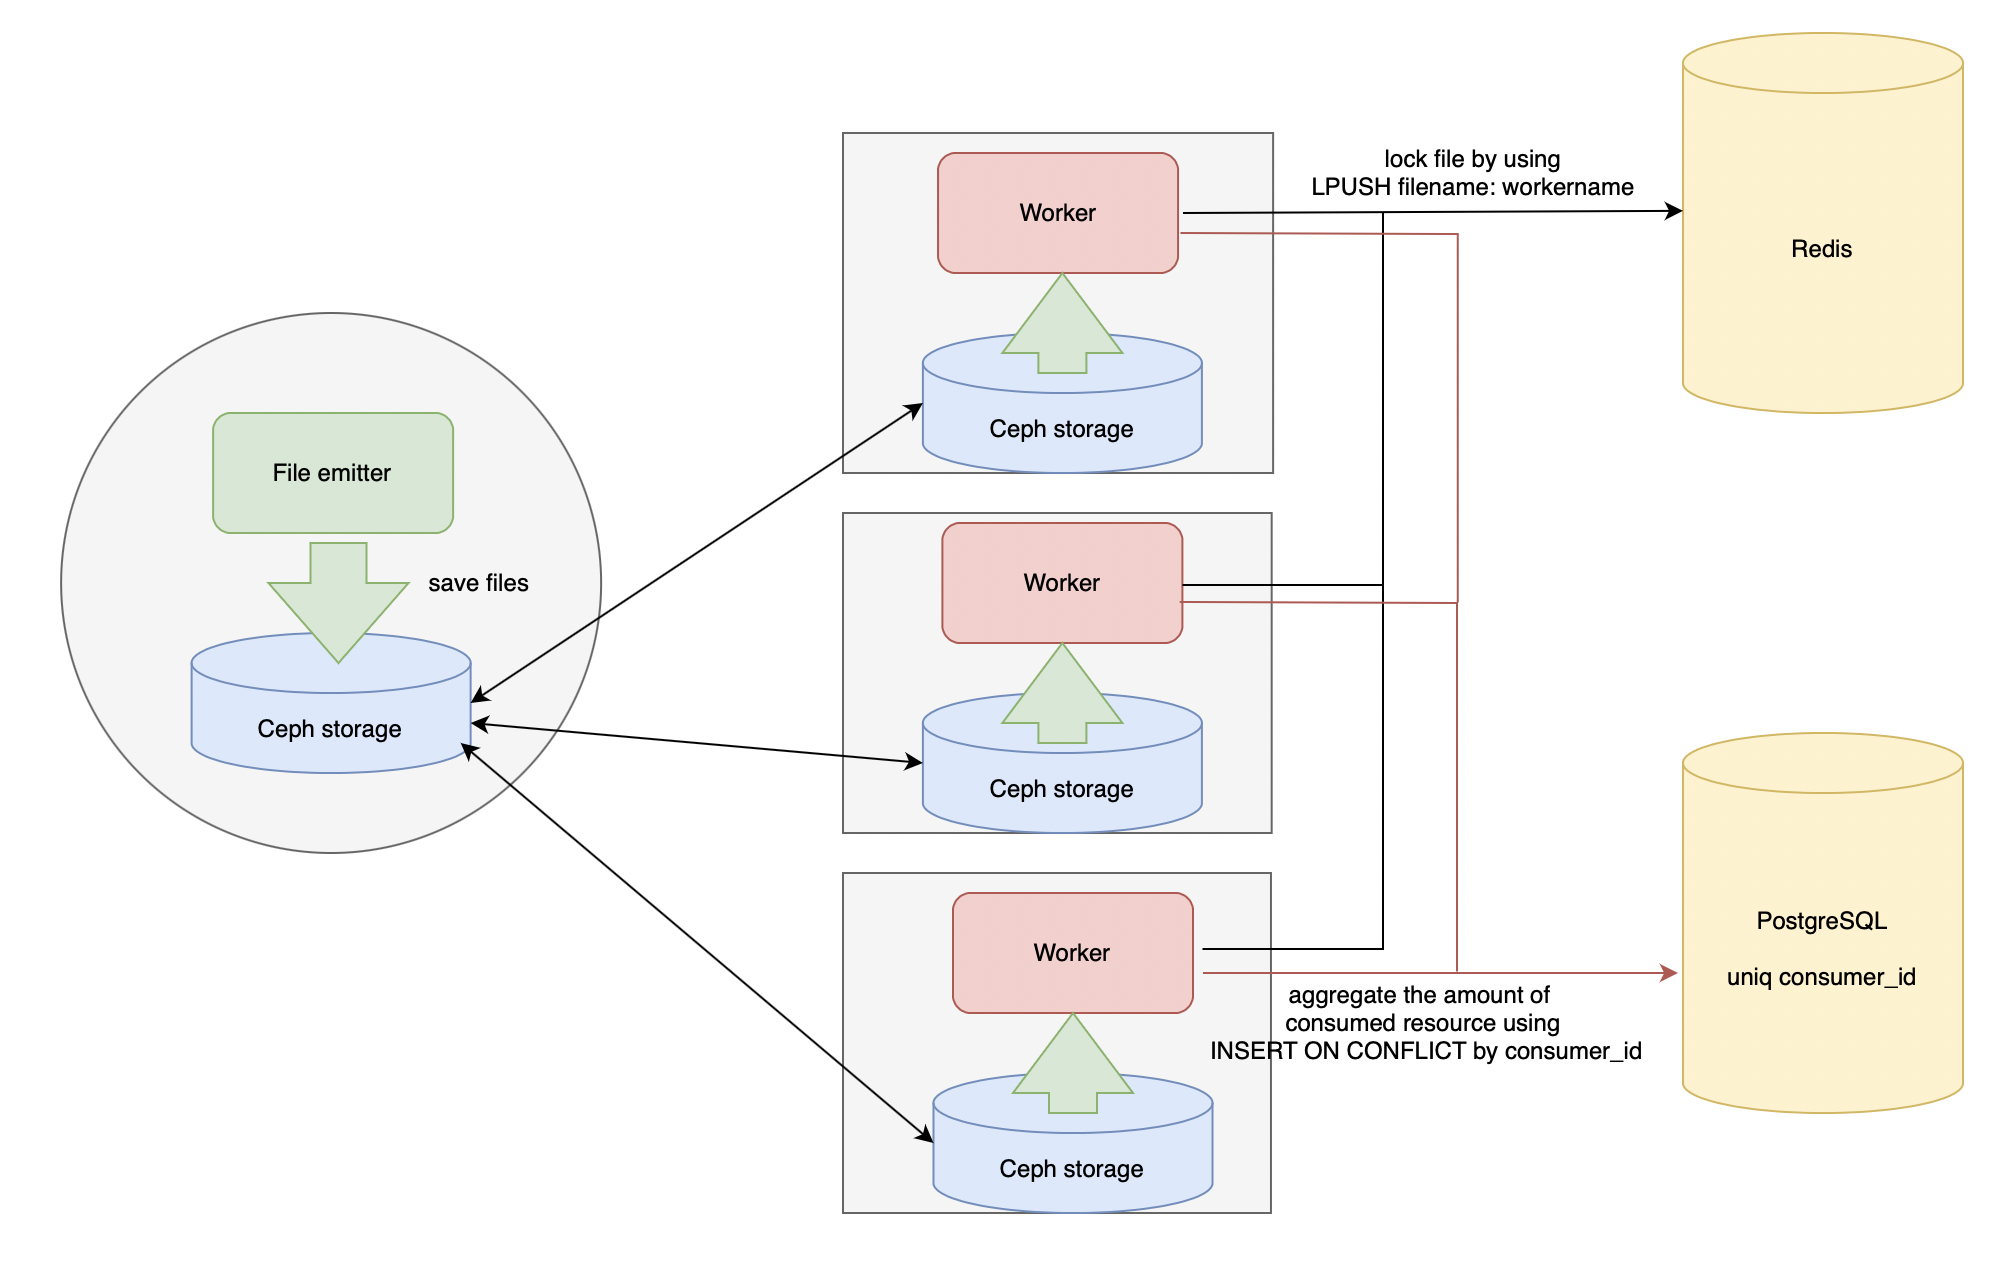
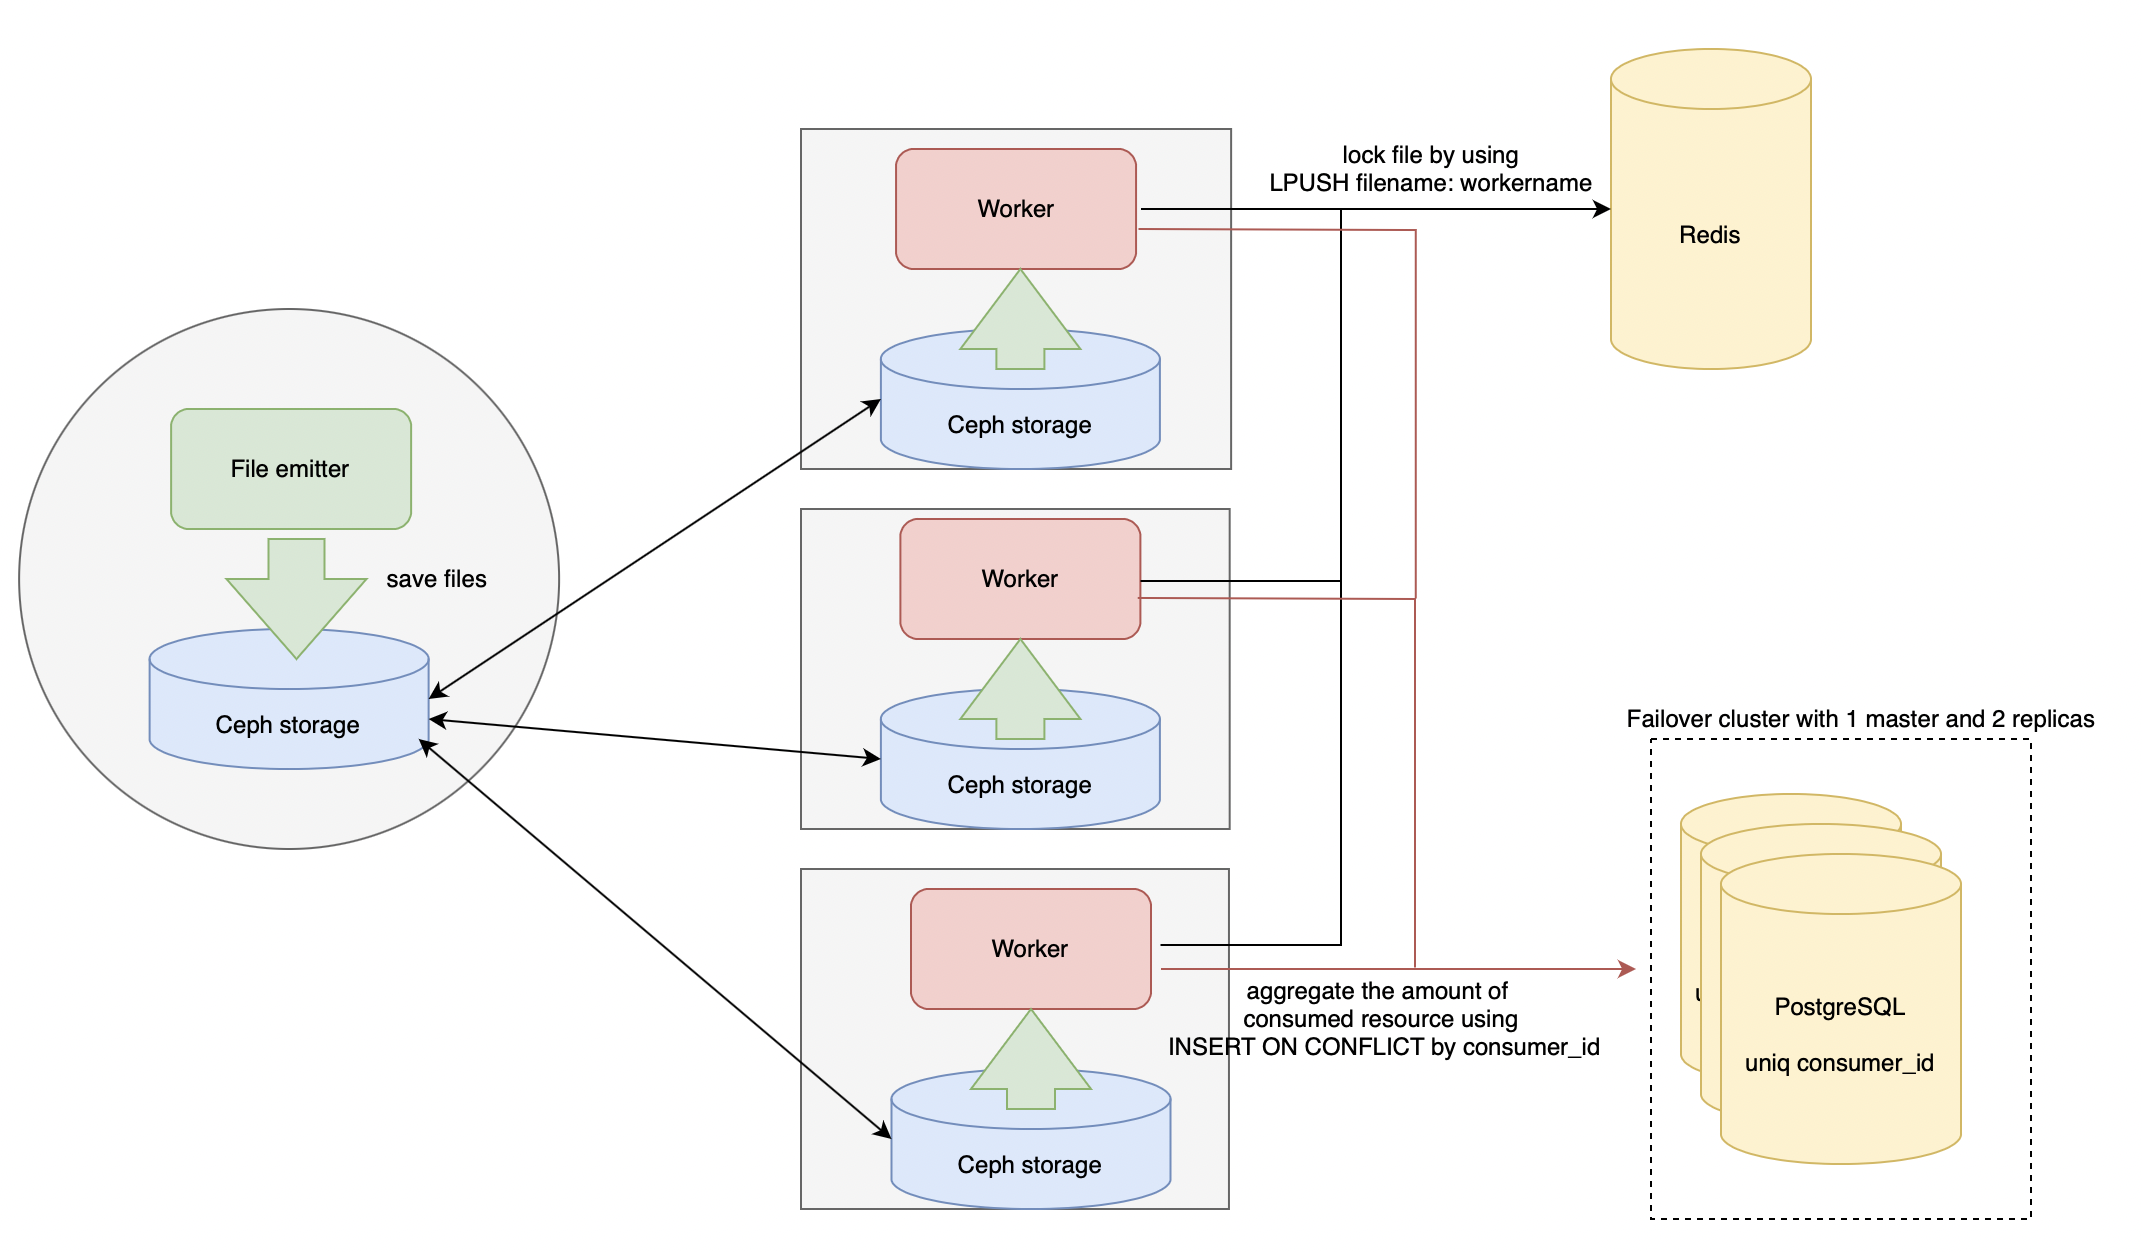
- ref #1. Add worker pool and Ceph storage approach description

diff --git a/design/Design.md b/design/Design.md
@@ -17,7 +17,8 @@ The gathering of the data will be done by periodically scanning the file directo
 
 The logic of working with every state is:
 - scan the whole directory in case of missing data about last scan.
-- If the data about last scanning exist, than finding the new files to scan by diffing the list of the files from the directory and list of the files from storage. 
+- If the data about last scanning exist, than finding the new files to scan by diffing the list of the files from the directory and list of the files from storage.
+- In case of having line number in the state data near the file name, it means that the consumer unexpectedly failed and we need to continue scanning from the next line.
 
 **Potential bottlenecks**
 
@@ -32,8 +33,32 @@ The durability of the service will be handled by some restart policy for example
 Observability of the service will be handled by Prometheus with Alert manager to send alerts to Slack in case of any incident.
 Grafana will be used to display statistics about failures that could be used to calculate potential SLO / SLI.
 
+**Trade-ins**
+The solution is very simple and could be a good fit for an MVP or in case you don't need a horizontal scaling and very high availability. 
+If you need to manage scalability or the network becomes bottlenecks plese look into the next options.
+
 ## Worker pool with Ceph storage
+In case of necessity to improve scalability we could extend the previous scheme for using multiple workers. Not to handle multiple pieces of disks and keep the simplicity of using the shared one  we could pick some distributed storage like Ceph.
+
+But while introducing scalability we face with the problem of deduplicating data. For example if 2+ workers start processing the same file, the amount of incorrect aggregated data about consumed resource will dramatically increased.  
+It could be fixed by handling the state like we explained in the previous option: in case of having line number in the state data near the file name, it means that the consumer unexpectedly failed and we need to continue scanning from the next line.
 
 <img src="./img/ceph-worker-pool.png" width="950">
+
+**Durability**
+
+The durability of the service will be handled by some restart policy for example by container restart policy of Kubernetes with exponential backoff.
+
+Redis could be used as 1 instance because with backup option. Failover of Redises doesn't make sense because in case of failures worker will be able to work on already consumed files and a list of files will not be more than 2Tb ;) In case of really having a necessity to have failover, it's possible to do with Redis. Or to migrate to some distributed K/V like ZooKeeper.
+
+**Potential bottlenecks**
+The potential bottlenecks are still Disk IO and potentially could be solved by picking the SSD disks and network in case of using distributed storages.
+
+In case of having network-bloating we could only extend the bottleneck by changing hardware or by using the next option
+
+**Trade-ins**
+The solution is more scalabe and fault-taulerant and provides high availability.
+From the other hand the trade-in will be potential infrastructure overhead because of necessity to deploy / scale and support worker-services, Ceph cluster and fault-taulerant DBs. 
+In case of network is still bottleneck, we could forecast network overpricing in case of using public clouds,or pick the next option
 
 ## Worker pool with message queue
